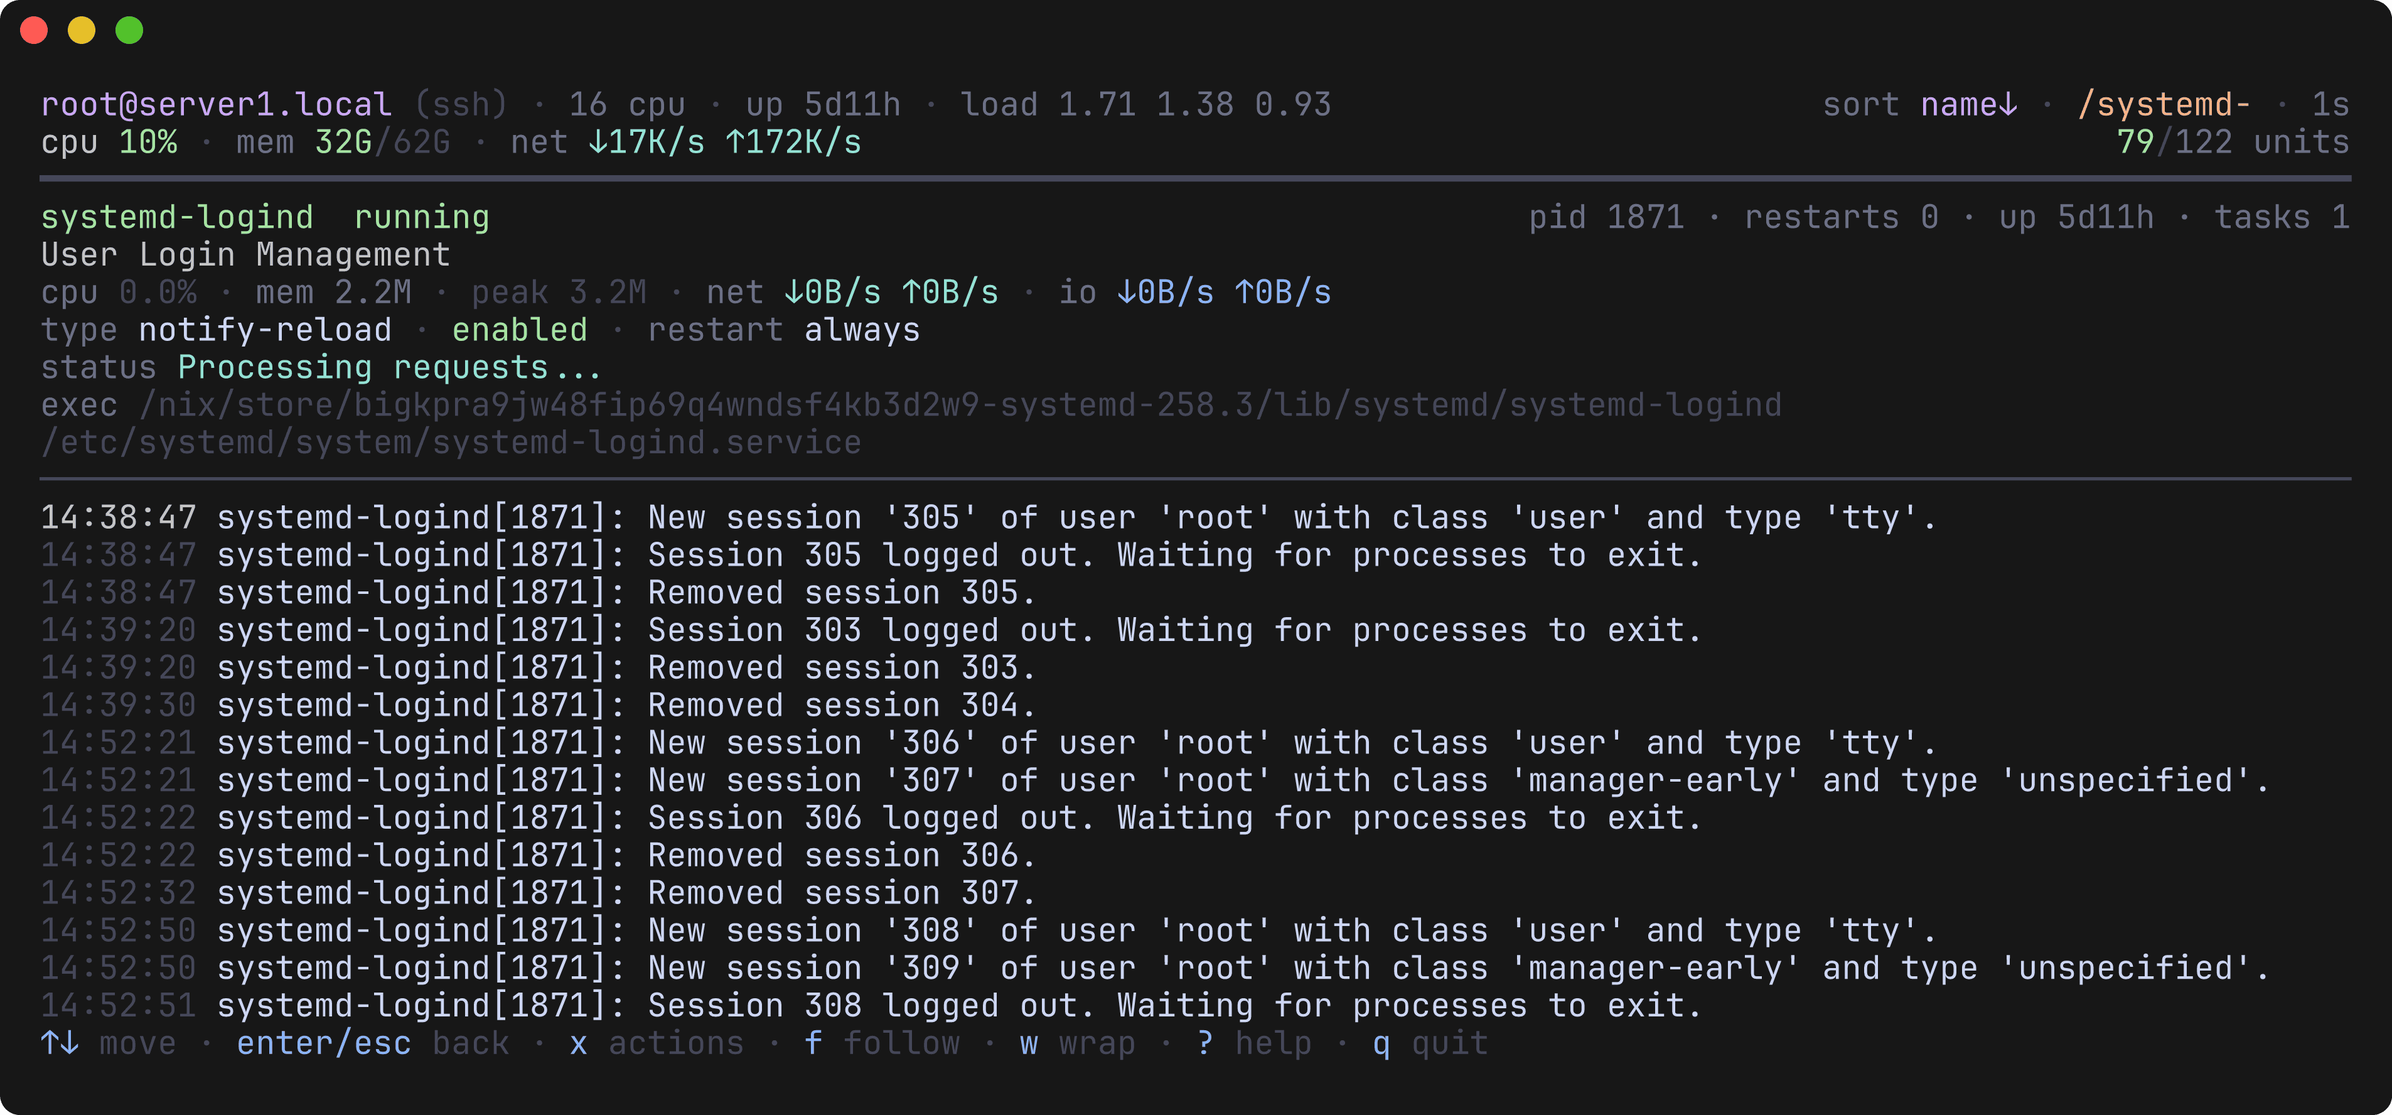
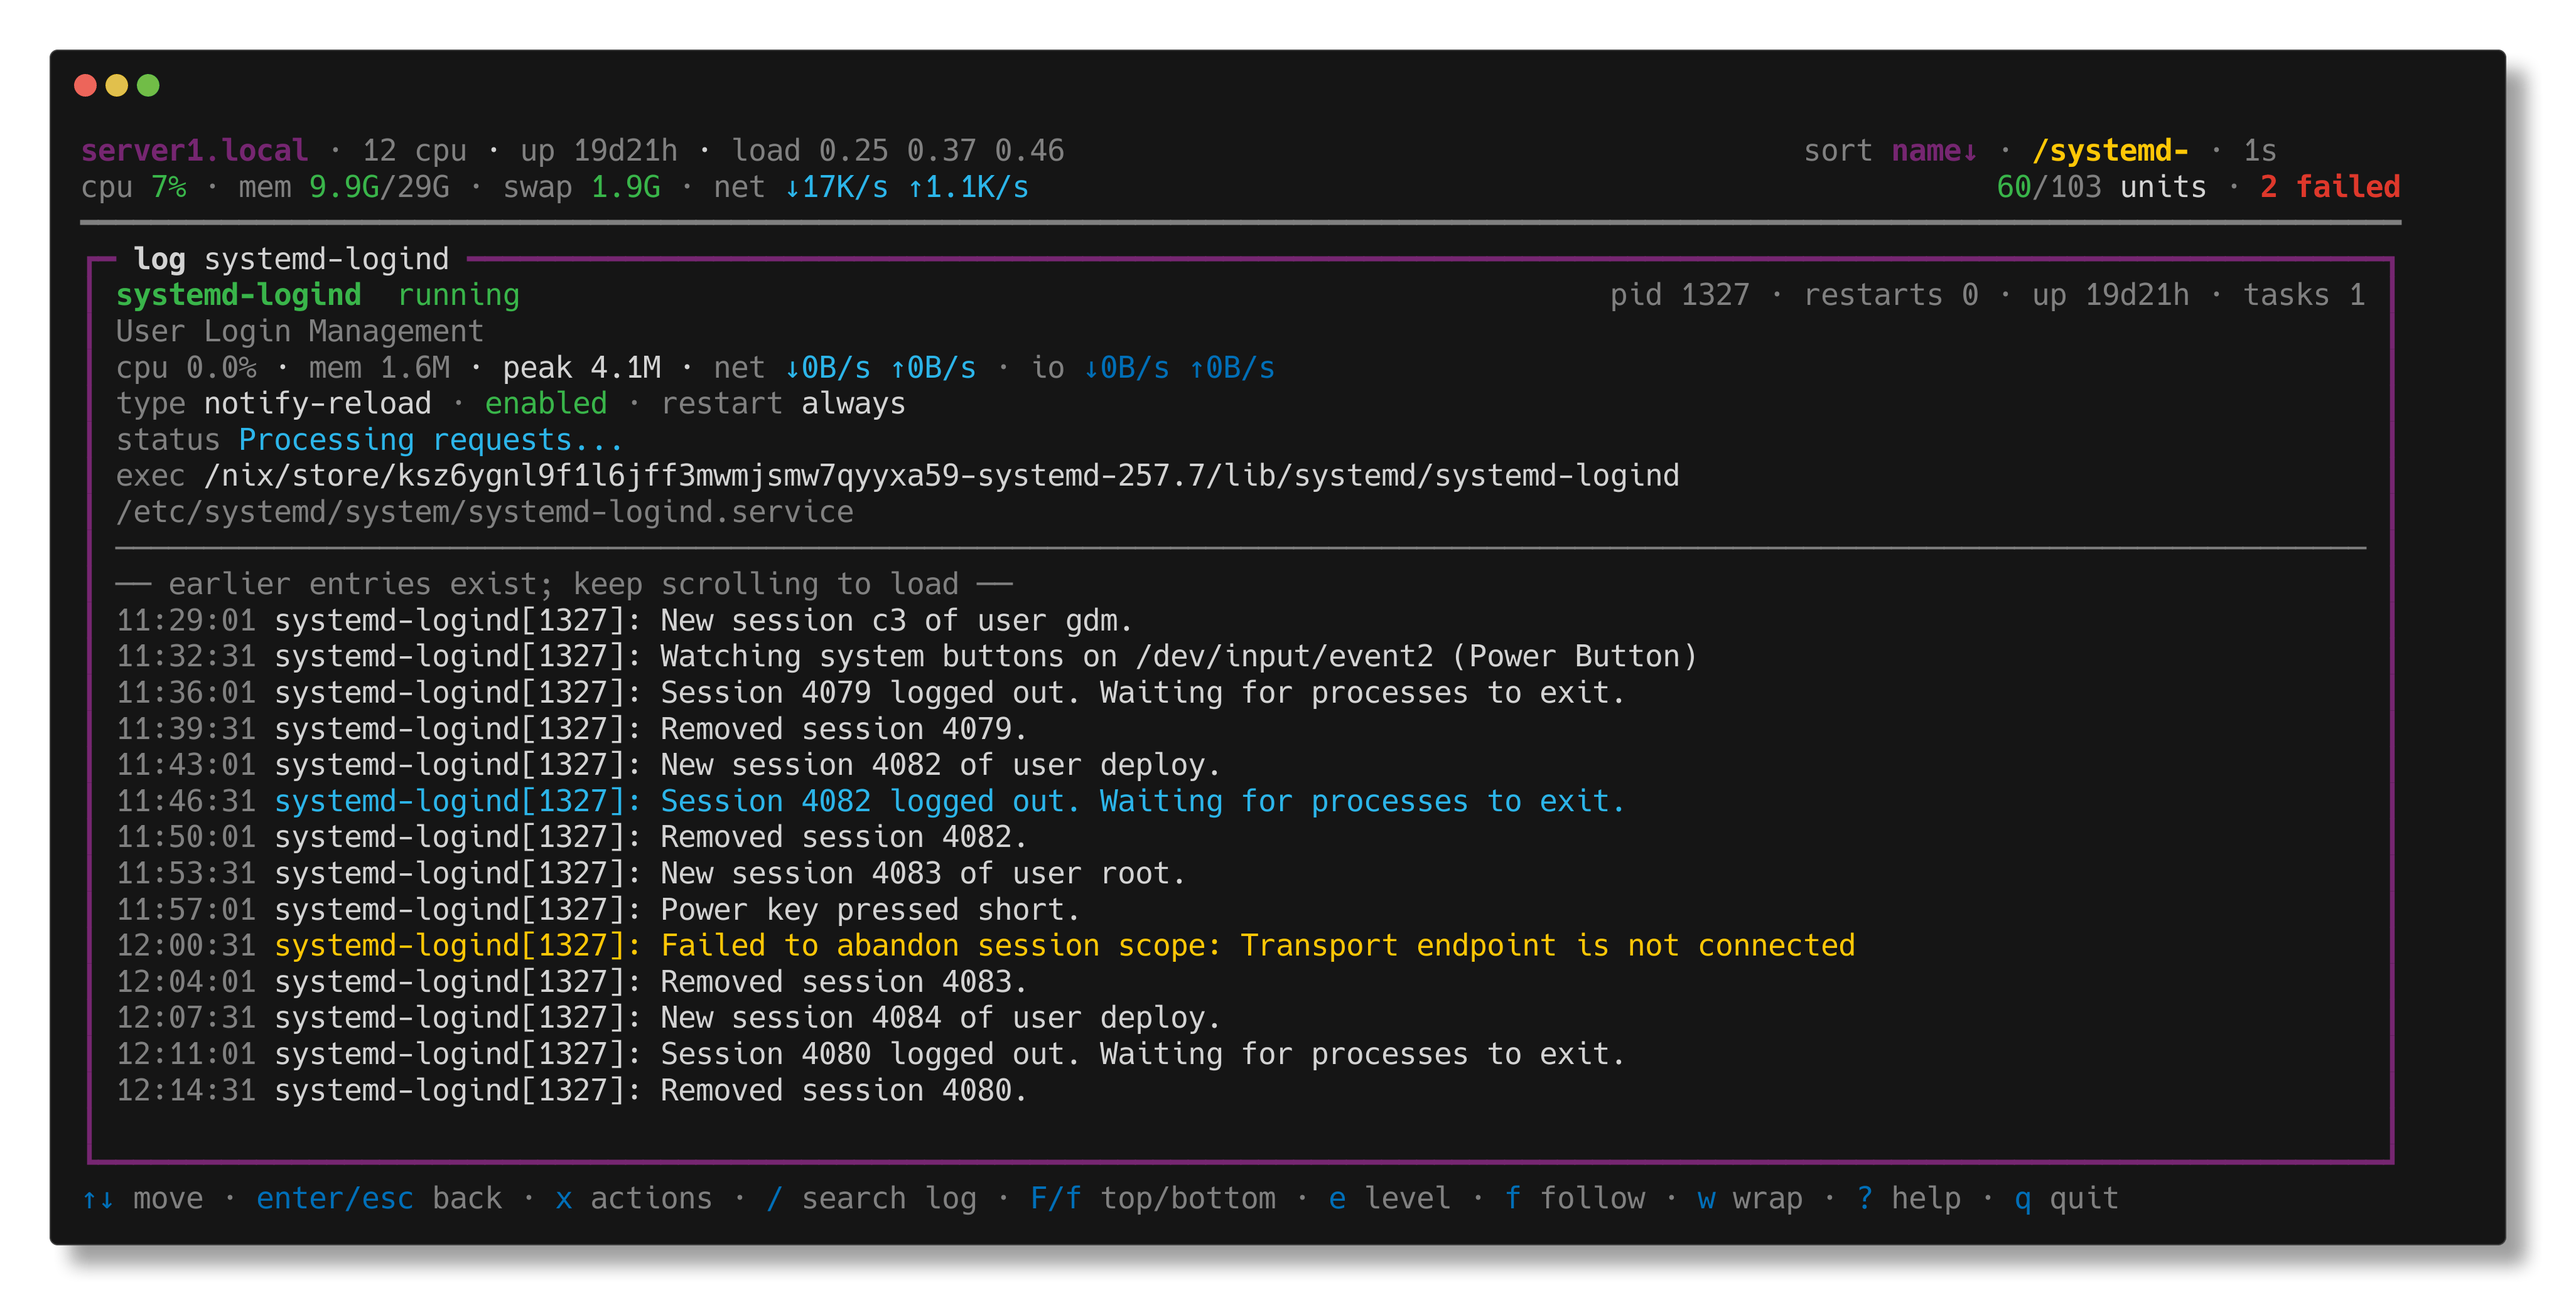
Screenshots for 0.3.0, and a nix app that regenerates them
The images in the readme still showed the pre-0.3.0 UI: no pane boxes, no
filter in the pane title, the old footer. These are the current build.

`nix run .#screenshots` now produces all four from the repo root, bringing
its own tmux, termshot and pngquant. It works on any machine, which was
the thing stopping this: the log pane needs a readable journal, and a
sandbox or an unprivileged account has none. docs/helpers/fake-journalctl.sh
serves an invented journal instead, choosing messages that suit whichever
unit is selected — session messages for logind, publickey lines for sshd,
carrier and DHCP for networkd — so the pane reads as that unit's own log.
The unit table and the host stats are the real machine's; only the journal
is made up, and the hostname is replaced on the way out as before.

The alternative was screenshotting a production host and editing its log
lines out afterwards, which is worse in every way.

Two things this cost, both now encoded: PATH has to be handed to tmux
explicitly, because the command runs under the tmux *server's* environment
and a fake journalctl put on PATH here would otherwise be silently absent
— with the real one's permission error in the pane. And it must be reached
*as* `journalctl`, so screenshot.sh symlinks it under a name of its own
rather than putting docs/helpers on PATH.

Helper scripts move to docs/helpers/, leaving docs/ as the images.

Changed region(s): [[0.0, 0.0, 1.0, 1.0]]

diff --git a/CLAUDE.md b/CLAUDE.md
@@ -284,11 +284,15 @@ release binary reports the tag and a `nix build` reports the flake's value —
 keep the two in step. The README's download URLs point at
 `releases/latest/download/`, so they keep working without edits.
 
-The screenshots in `docs/` are regenerated by `docs/screenshot.sh`, which
-carries the four commands that produce them; further pitfalls are in
-`.claude/memory/feedback_verify_tui_with_pty.md`. It sanitises the hostname —
-keep it that way. Run it where the journal is readable, or the log pane comes
-out empty and the hero shot sells the tool short. (`charm-freeze`, used
+The screenshots in `docs/` are regenerated with **`nix run .#screenshots`**
+from the repo root, which brings its own tmux, termshot and pngquant and
+writes the four images in place. It works anywhere, including where the
+host's own journal is unreadable: `docs/helpers/fake-journalctl.sh` serves an
+invented journal chosen to suit whichever unit is selected, while the unit
+table and host stats stay the real machine's. The hostname is replaced on the
+way out — keep it that way. `docs/helpers/screenshot.sh` is the single-image
+worker underneath, if you want a different frame; further pitfalls are in
+`.claude/memory/feedback_verify_tui_with_pty.md`. (`charm-freeze`, used
 earlier, does not render ANSI backgrounds at all; `termshot` does.)
 
 ## Gotchas
@@ -313,8 +317,13 @@ earlier, does not render ANSI backgrounds at all; `termshot` does.)
 - These are verified against a real journal, not asserted: `journal_backlog_test.go`
   builds one with `systemd-journal-remote` and runs the actual argument lists
   through `journalctl -D`. It skips where those are unavailable.
+- **Screenshots need a readable journal**, which a sandbox or an unprivileged
+  account does not have. `docs/helpers/fake-journalctl.sh` first on `PATH` serves an
+  invented one, chosen to suit whichever unit is selected; the unit table and
+  host stats stay real. That beats screenshotting somebody's production host
+  and editing the lines out afterwards.
 - **`-H` can be tested without a second machine.** Run an sshd of your own and
-  point unitop at it — `docs/local-sshd.sh` sets one up on 127.0.0.1:2222 with
+  point unitop at it — `docs/helpers/local-sshd.sh` sets one up on 127.0.0.1:2222 with
   its own host key and a wrapper on `PATH` that injects the connection details,
   so unitop's real argument list is what gets exercised. That is how the
   post-host `--` was settled: OpenSSH's getopt consumes the separator and the

diff --git a/.claude/memory/MEMORY.md b/.claude/memory/MEMORY.md
@@ -17,7 +17,7 @@
 
 - [Verifying the TUI needs a pty, and frames arrive as diffs](feedback_verify_tui_with_pty.md) — the `script` recipe plus why captured output looks like overlapping half-screens
 - [Rendering bugs hide in sizes nobody tests](feedback_layout_invariant.md) — one over-wide line spoils the whole screen; the matrix that found six, and why to re-run it with the backstop off
-- [`-H` needs no second machine](feedback_verify_remote_with_local_sshd.md) — `docs/local-sshd.sh`; it settled a wrong report about ssh's `--` that reading could not
+- [`-H` needs no second machine](feedback_verify_remote_with_local_sshd.md) — `docs/helpers/local-sshd.sh`; it settled a wrong report about ssh's `--` that reading could not
 - [Go + nix loop: vendor, git add, then build](feedback_go_nix_workflow.md) — `nix build` also runs the tests, in a sandbox with no systemd/network
 - [Remote poll is one shell line and two ssh round trips](project_remote_poll.md) — a `#` in the marker once silently emptied the unit list
 - [Why exec and not D-Bus, with the measurements](project_dbus_vs_exec.md) — 1.7× at best, the journal and `-H` both still need exec; a poll costs ~265ms so `-i 250ms` is already saturated

diff --git a/.claude/memory/feedback_verify_remote_with_local_sshd.md b/.claude/memory/feedback_verify_remote_with_local_sshd.md
@@ -5,7 +5,7 @@ type: feedback
 ---
 
 The remote path used to get read rather than run, because testing it looked
-like it needed another host. It does not: `docs/local-sshd.sh start` puts a
+like it needed another host. It does not: `docs/helpers/local-sshd.sh start` puts a
 throwaway sshd on 127.0.0.1:2222 with its own host key, and a wrapper on `PATH`
 that adds only the connection details — so **unitop's real argument list is
 what ssh receives**.
@@ -25,7 +25,7 @@ before the rig was right.
 
 **How to apply:** before changing anything in `runner.command`, `sshOpts` or
 the poll one-liner, bring the rig up and watch the invocation log
-(`docs/local-sshd.sh log`). Claims about ssh's argument handling are cheap to
+(`docs/helpers/local-sshd.sh log`). Claims about ssh's argument handling are cheap to
 test now and expensive to get wrong — quoting a journal cursor containing `;`,
 or a `-g` pattern containing a space, both go through this path.
 

diff --git a/.claude/memory/feedback_verify_tui_with_pty.md b/.claude/memory/feedback_verify_tui_with_pty.md
@@ -40,9 +40,10 @@ the raw capture.
 
 ## Regenerating the README screenshots
 
-`docs/screenshot.sh` now does the whole job — tmux capture, hostname
-sanitising, padding, termshot, pngquant — and carries the four commands that
-produce the images in `docs/`. Use it rather than rebuilding the pipeline.
+`nix run .#screenshots` does the whole job — tmux capture, hostname sanitising,
+padding, termshot, pngquant, all four images — and brings its own tools. It
+needs no readable journal: `docs/helpers/fake-journalctl.sh` invents one that
+suits whichever unit is selected. Use it rather than rebuilding the pipeline.
 
 Traps it exists to encode:
 

diff --git a/CHANGELOG.md b/CHANGELOG.md
@@ -8,6 +8,14 @@ to change.
 
 ## [Unreleased]
 
+### Changed
+
+- The readme screenshots show 0.3.0 — the boxed panes, the filter in the pane
+  title, the pane-scoped footer. `nix run .#screenshots` regenerates all four
+  from the current build, on any machine: the unit table and host stats are the
+  real ones, the journal is invented so it works where the real one cannot be
+  read, and the hostname is replaced on the way out.
+
 ## [0.3.0] — 2026-08-18
 
 The log pane was reading the journal wrongly, and a service could scribble on
